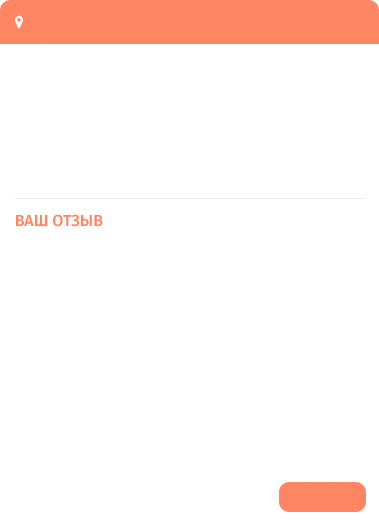
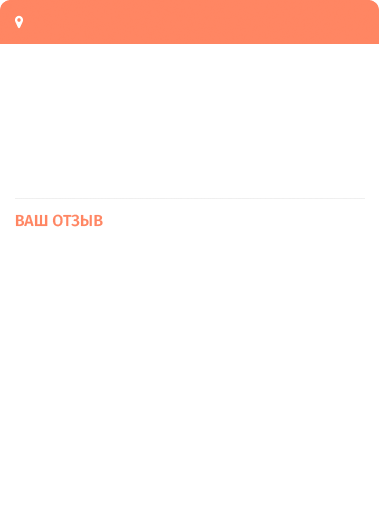
Add marking

Changed region(s): [[0.7256, 0.9108, 0.9868, 0.9715]]

diff --git a/style.css b/style.css
@@ -3,31 +3,32 @@ body, html {
     margin: 0;
     width: 100%;
     height: 100%;
-}
-#map {
-    width: 100%;
-    height: 100%;
+    font-family: 'Fira Sans';
 }
 input[type=text], textarea, #header {
     display: block;
     box-sizing: border-box;
 }
-.add-button{
-    width:87px;
-    height:30px;
-    color: #FFFFFF;
-    font-size: 10pt;
-    text-align: center;
-    cursor: pointer;
-    text-decoration: none;
-    outline: none;
-    border: none;
-    border-radius: 15px;
-    background:url('images/add.png') no-repeat center center;
+#map {
+    width: 100%;
+    height: 100%;
 }
-.add-button:active {
-    box-shadow: 0 2px #4f4f4f;
-    transform: translateY(2px);
+#main-div {
+    width: 379px;
+    height: 527px;
+    background:url('images/baloon-background.png') no-repeat center center;
+}
+#main-div input[type=text], #main-div textarea {
+    width: 95%;
+}
+#main-div input[type=text] {
+    height: 30px;
+}
+#main-div textarea {
+    height: 130px;
+}
+.add-comment {
+    margin: 40px 10px 10px 10px;
 }
 #header {
     width: 100%;
@@ -46,20 +47,42 @@ input[type=text], textarea, #header {
     border-right: 7px solid transparent;
 }
 #address {
-    margin: 15px;
+    padding: 10px 20px 10px 45px;
+    color: #FFFFFF;
+    font-size: 8pt;
 }
 .close-button{
     display:block;
     position:absolute;
     top:15px;
-    right:15px;
+    left:355px;
     width:14px;
     height:14px;
     cursor: pointer;
-    background:url('img/main_x.png') no-repeat center center;
+    background:url('images/close.png') no-repeat center center;
 }
-#main-div {
-    width: 379px;
-    height: 527px;
-    background:url('images/baloon-background.png') no-repeat center center;
+.comments {
+    overflow: auto;
+    height: 150px;
+    margin: 10px;
+}
+.add-button{
+    width:90px;
+    height:30px;
+    position: absolute;
+    top: 480px;
+    left: 270px;
+    color: #FFFFFF;
+    font-size: 10pt;
+    text-align: center;
+    cursor: pointer;
+    text-decoration: none;
+    outline: none;
+    border: none;
+    border-radius: 10px;
+    background:url('images/add.png') no-repeat center center;
+}
+.add-button:active {
+    box-shadow: 0 2px #4f4f4f;
+    transform: translateY(2px);
 }

diff --git a/main.js b/main.js
@@ -61,14 +61,18 @@ function init () {
                 // contentHeader: firstGeoObject.properties.get('text'),
                 contentBody:
                 "<p id=\"address\">" + firstGeoObject.properties.get('text') + "</p>" +
-                "<input type='text' name='name'>" +
-                "<input type='text' name='place'>" +
-                "<textarea name='comment'></textarea>" +
+                "<a class=\"close-button\"></a>" +
+                "<div class=\"comments\"></div>" +
+                "<div class=\"add-comment\">" +
+                    "<input type='text' name='name'>" +
+                    "<input type='text' name='place'>" +
+                    "<textarea name='comment'></textarea>" +
+                "</div>" +
                 "<button class='add-button'>Добавить</button>"
             },{
-                contentBodyLayout: ymaps.templateLayoutFactory.createClass(
+                layout: ymaps.templateLayoutFactory.createClass(
                     "<div id=\"main-div\">" +
-                    "$[data.contentBody]" +
+                    "$[contentBody]" +
                     "</div>"
                 )
             });

diff --git a/index.html b/index.html
@@ -5,6 +5,9 @@
     <title>Title</title>
     <script src="http://api-maps.yandex.ru/2.1/?lang=ru_RU" type="text/javascript"></script>
     <script src="main.js" type="text/javascript"></script>
+    <style>
+        @import url(http://fonts.googleapis.com/css?family=Fira+Sans:500);
+    </style>
     <link href="//yandex.st/bootstrap/2.3.2/css/bootstrap.min.css" rel="stylesheet">
     <link rel="stylesheet" href="style.css">
 </head>
